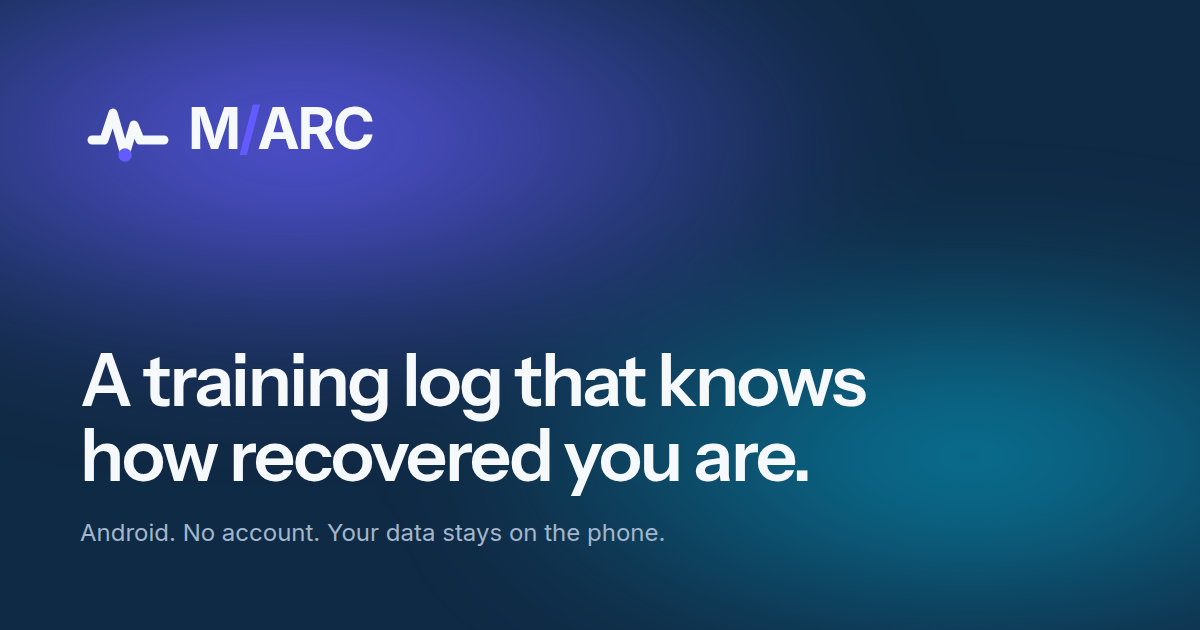
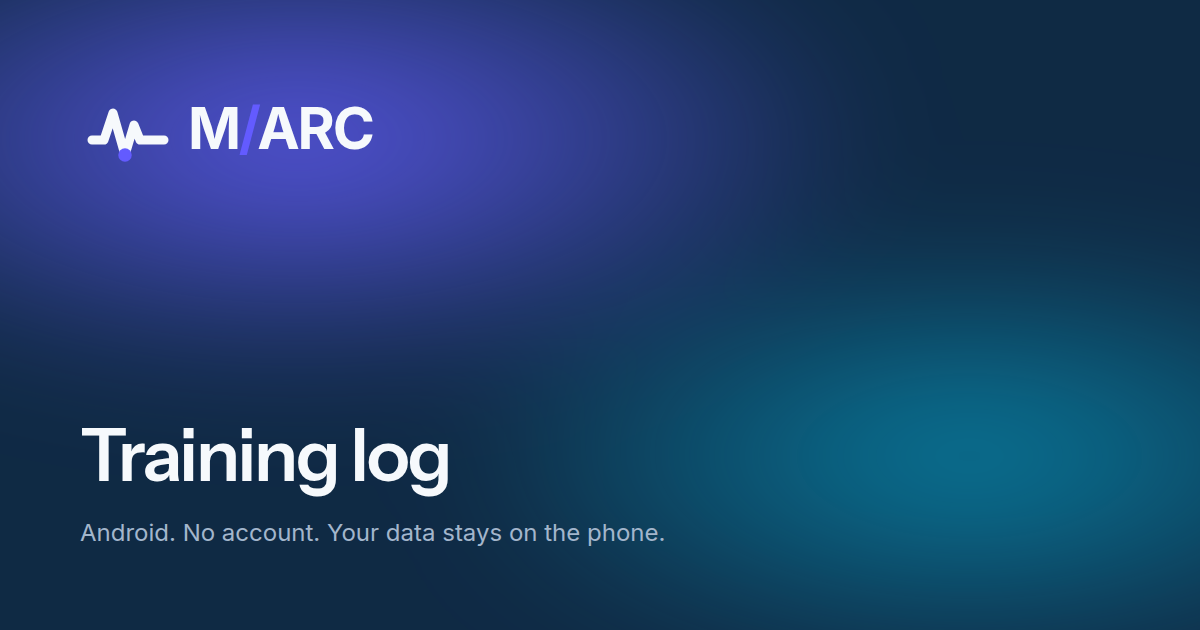
DOC-6 review: share image heading "Training log", Train heading "Targets"
- og.html h1 is now "Training log" (the hero heading); og.png regenerated.
- og:image:alt on the four pages and WEBSITE-DESIGN.md section 10 match it.
- Train h2 "Set targets" -> "Targets" (a noun, not an instruction); section 7 matches.

Claude-Session: https://claude.ai/code/session_01Tc7uLSdp7LGknt8xc1i9dc

Changed region(s): [[0.0617, 0.5429, 0.74, 0.7841]]

diff --git a/website/index.html b/website/index.html
@@ -16,7 +16,7 @@
 <meta property="og:image" content="__SITE_URL____BASE__og.png">
 <meta property="og:image:width" content="1200">
 <meta property="og:image:height" content="630">
-<meta property="og:image:alt" content="M/ARC lockup and the line A training log that knows how recovered you are, on deep navy">
+<meta property="og:image:alt" content="M/ARC lockup and the heading Training log, on deep navy">
 <meta name="twitter:image" content="__SITE_URL____BASE__og.png">
 <!-- endif -->
 <meta name="twitter:card" content="summary_large_image">
@@ -148,7 +148,7 @@
   <div class="wrap g">
     <div class="c5 head r">
       <p class="eyebrow">Train</p>
-      <h2 id="train-h">Set targets</h2>
+      <h2 id="train-h">Targets</h2>
     </div>
     <figure class="c7 fig first media r">
       <div class="phone s"><div class="screen"><img class="wipe" src="__BASE__shots/midnight-train.png" width="780" height="1688" loading="lazy" decoding="async" alt="The Train tab"></div></div>

diff --git a/website/404.html b/website/404.html
@@ -17,7 +17,7 @@
 <meta property="og:image" content="__SITE_URL____BASE__og.png">
 <meta property="og:image:width" content="1200">
 <meta property="og:image:height" content="630">
-<meta property="og:image:alt" content="M/ARC lockup and the line A training log that knows how recovered you are, on deep navy">
+<meta property="og:image:alt" content="M/ARC lockup and the heading Training log, on deep navy">
 <meta name="twitter:image" content="__SITE_URL____BASE__og.png">
 <!-- endif -->
 <meta name="twitter:card" content="summary_large_image">

diff --git a/website/install/index.html b/website/install/index.html
@@ -16,7 +16,7 @@
 <meta property="og:image" content="__SITE_URL____BASE__og.png">
 <meta property="og:image:width" content="1200">
 <meta property="og:image:height" content="630">
-<meta property="og:image:alt" content="M/ARC lockup and the line A training log that knows how recovered you are, on deep navy">
+<meta property="og:image:alt" content="M/ARC lockup and the heading Training log, on deep navy">
 <meta name="twitter:image" content="__SITE_URL____BASE__og.png">
 <!-- endif -->
 <meta name="twitter:card" content="summary_large_image">

diff --git a/website/privacy/index.html b/website/privacy/index.html
@@ -16,7 +16,7 @@
 <meta property="og:image" content="__SITE_URL____BASE__og.png">
 <meta property="og:image:width" content="1200">
 <meta property="og:image:height" content="630">
-<meta property="og:image:alt" content="M/ARC lockup and the line A training log that knows how recovered you are, on deep navy">
+<meta property="og:image:alt" content="M/ARC lockup and the heading Training log, on deep navy">
 <meta name="twitter:image" content="__SITE_URL____BASE__og.png">
 <!-- endif -->
 <meta name="twitter:card" content="summary_large_image">

diff --git a/website/og.html b/website/og.html
@@ -30,7 +30,7 @@ p { margin: 24px 0 0; font: 400 24px/1.4 var(--fb); color: var(--text2); }
   <div class="light"></div>
   <div class="lockup"><svg class="mark" viewBox="0 0 64 64" aria-hidden="true"><path d="M8 40H16L22 22L30 50L36 30L40 40H56"/><circle cx="30" cy="50" r="4.5"/></svg><span class="word">M<span class="sl">/</span>ARC</span></div>
   <div class="line">
-    <h1>A training log that knows how recovered you are.</h1>
+    <h1>Training log</h1>
     <p>Android. No account. Your data stays on the phone.</p>
   </div>
 </div>

diff --git a/docs/WEBSITE-DESIGN.md b/docs/WEBSITE-DESIGN.md
@@ -492,7 +492,7 @@ Copy below is final. `__VERSION__` renders as the package.json version (37.1.0 t
 | | |
 |---|---|
 | Eyebrow | Train |
-| h2 | Set targets |
+| h2 | Targets |
 | Copy | "Open a session and every set already says what to do, such as 62.5 kg for 8, with a one-line reason. Tap the row to log it as planned or type what actually happened." / "A target steps up after you hit the top of the range twice. It holds when readiness is Amber or a primary muscle is under 60% recovered. A lighter week or a Red day cuts sets. There is no blind 2.5 kg increase." |
 | Rows | "Heart-rate rest": With a Bluetooth heart-rate watch, rest ends when your heart rate settles, and falls back to the timer if the signal drops. / "PR chip": The set that beats your best lights up the moment you log it, and History keeps six kinds of records, from heaviest load to furthest carry. / "Plates per side": Tap a barbell target to see the plates in the plates' own unit. Up to 8 gyms, and each machine remembers kg or lb. / "Target reasons": Open the Why this target disclosure under any exercise to see the rule that fired, such as top of range twice, step up, or effort missing, repeat and rate. |
 | Demo | The rest banner (6.8) under the rows |
@@ -757,11 +757,11 @@ Section 5: `prefers-reduced-motion: reduce` (or no JavaScript) yields the static
 
 Shared head (partial): charset, viewport `width=device-width, initial-scale=1, viewport-fit=cover`, the title and description, `<link rel="canonical">` (2.5), `theme-color`, the three font preloads, `tokens.css` and `site.css` (one stylesheet each, both under 20 KB before compression), the module script with `defer`, and:
 
-- Open Graph: `og:type website`, `og:site_name M/ARC`, `og:title` (the title), `og:description` (the description), `og:image __SITE_URL____BASE__og.png` (emitted only when `SITE_URL` is set; relative image URLs are ignored by scrapers), `og:image:width 1200`, `og:image:height 630`, `og:image:alt "M/ARC lockup and the line A training log that knows how recovered you are, on deep navy"`, `og:url` (when `SITE_URL` is set).
+- Open Graph: `og:type website`, `og:site_name M/ARC`, `og:title` (the title), `og:description` (the description), `og:image __SITE_URL____BASE__og.png` (emitted only when `SITE_URL` is set; relative image URLs are ignored by scrapers), `og:image:width 1200`, `og:image:height 630`, `og:image:alt "M/ARC lockup and the heading Training log, on deep navy"`, `og:url` (when `SITE_URL` is set).
 - Twitter: `twitter:card summary_large_image`, `twitter:title`, `twitter:description`, `twitter:image` (same condition).
 - Favicons from `branding/midnight/`, copied at build to `website/public/`: `<link rel="icon" href="__BASE__mark.svg" type="image/svg+xml">`, `<link rel="icon" href="__BASE__icon-192.png" sizes="192x192" type="image/png">`, `<link rel="apple-touch-icon" href="__BASE__icon-192.png">`. No manifest: the site is not an app.
 
-**OG image.** `website/og/og.html` is a 1200x630 page using the same tokens: the Midnight plane (the hero pair of lights, blurred 60px, with the grain) behind `branding/midnight/lockup.png` at 96px tall in the top-left (80px margins) and the hero line "A training log that knows how recovered you are." in Instrument Sans 600 at 72px/1.04, -.03em, `--text`, max-width 900px, bottom-left; a caption line "Android. No account. Your data stays on the phone." in Inter 400 24px `--text2` beneath it. `website/og.mjs` renders it with Playwright (Chromium at `MARC_CHROMIUM`, device scale 1) to `website/public/og.png` before `vite build`; the file must be under 300 KB (PNG) or the script fails.
+**OG image.** `website/og/og.html` is a 1200x630 page using the same tokens: the Midnight plane (the hero pair of lights, blurred 60px, with the grain) behind `branding/midnight/lockup.png` at 96px tall in the top-left (80px margins) and the hero heading "Training log" in Instrument Sans 600 at 72px/1.04, -.03em, `--text`, max-width 900px, bottom-left; a caption line "Android. No account. Your data stays on the phone." in Inter 400 24px `--text2` beneath it. `website/og.mjs` renders it with Playwright (Chromium at `MARC_CHROMIUM`, device scale 1) to `website/public/og.png` before `vite build`; the file must be under 300 KB (PNG) or the script fails.
 
 **robots.txt** (always emitted to `website/public/robots.txt`):
 
